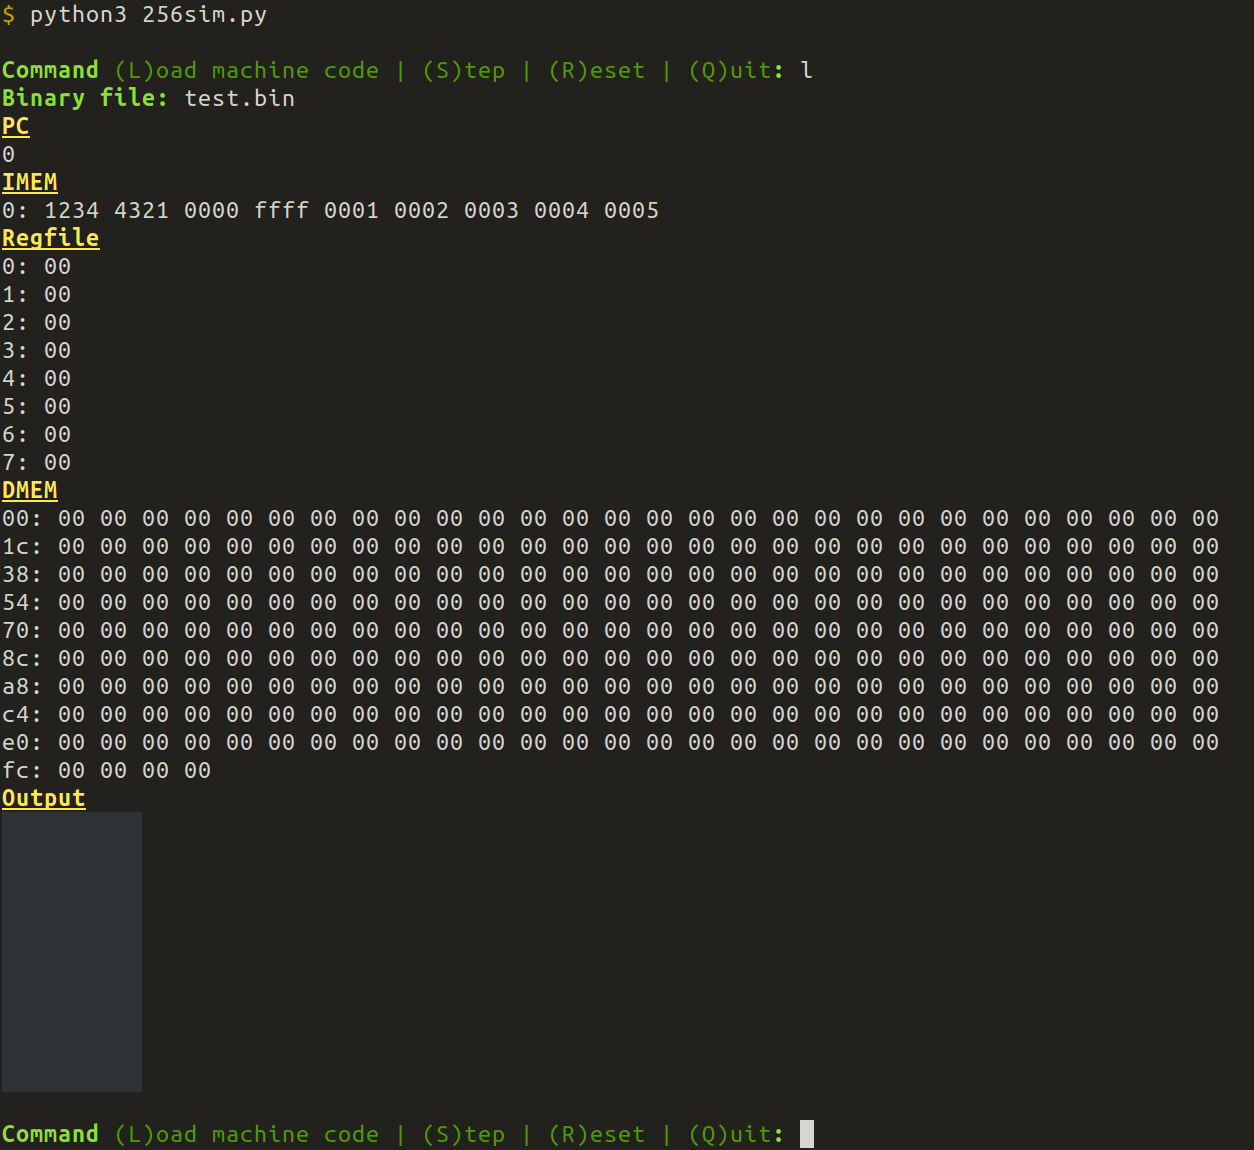
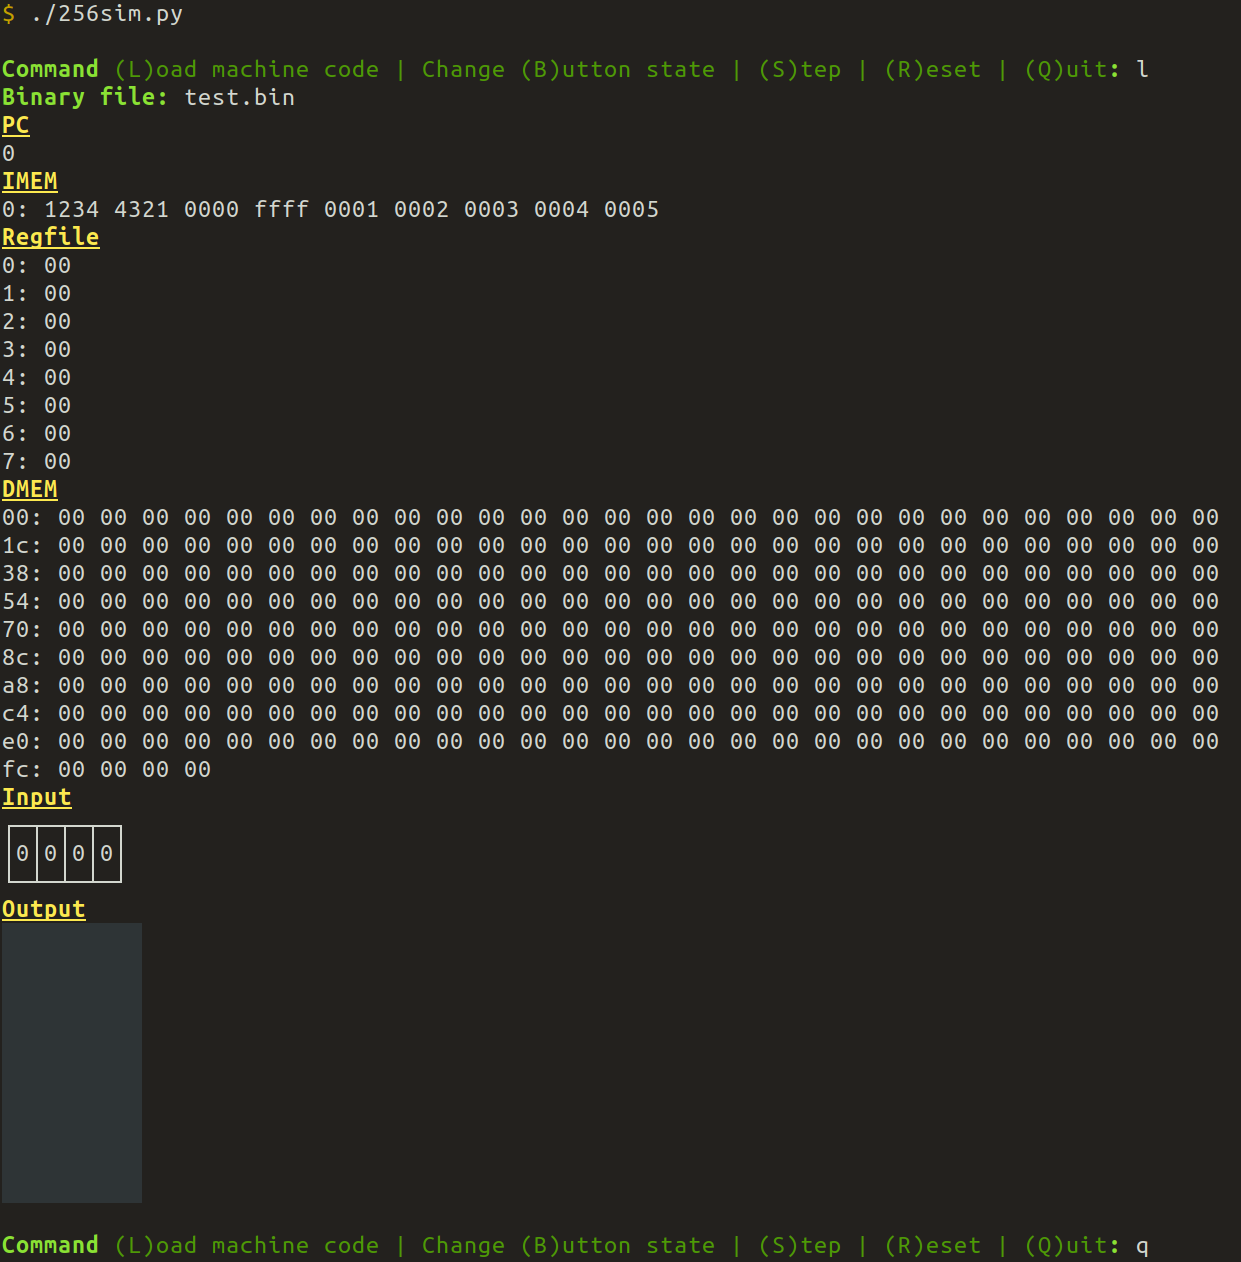
Add button state.

diff --git a/S20_Sim.py b/S20_Sim.py
@@ -1,10 +1,11 @@
-from utils import print_val, print_mem, print_matrix
+from utils import print_val, print_mem, print_input, print_matrix
 
 
 # Constants for this architecture
 _NUMREG = 8       # number of registers in the register file
 _REGSIZE = 8      # size (in bits) of each register)
 _ADDRSIZE = _REGSIZE  # size (in bits) of DMEM addresses
+_NUMBUTTONS = 4   # Number of buttons (binary on/off) for input
 _MATRIXSIZE = 10  # width and height of the pixel matrix output
 
 
@@ -12,7 +13,7 @@ class Simulator:
 
     def __init__(self):
         # CPU state:
-        self.imem = []  # not affected by CPU reset, so only initialized here
+        self.imem = [0]  # not affected by CPU reset, so only initialized here
         self.reset()
 
         # Simulator state (separate from the CPU itself):
@@ -29,6 +30,18 @@ class Simulator:
         # Always reset on loading new code
         self.reset()
 
+    def change_buttons(self, new_buttons):
+        # Change the state of the simulated buttons
+        # Parameter: new_buttons is a string, containing a 0 or 1 for each button
+        #            e.g. "0110" for the first button not pressed, the second and
+        #            third pressed, and the fourth not pressed.
+        buttons = [int(c) for c in new_buttons]
+        if len(buttons) != _NUMBUTTONS:
+            raise Exception(f"Incorrect number of buttons.  Got {len(buttons)}, expected {_NUMBUTTONS}.")
+        if max(buttons) > 1 or min(self.buttons) < 0:
+            raise Exception(f"Invalid value for button.  Only allowed values are 0 and 1.")
+        self.buttons = buttons
+
     def step(self):
         # Simulate *one* cycle of the CPU (Fetch-Decode-Execute)
         # Basic outline:
@@ -44,6 +57,7 @@ class Simulator:
         self.PC = 0
         self.regfile = [0] * _NUMREG
         self.dmem = [0] * 2**_ADDRSIZE
+        self.buttons = [0] * _NUMBUTTONS
         self.matrix = [([0] * _MATRIXSIZE) for _ in range(_MATRIXSIZE)]
 
     def print(self):
@@ -52,4 +66,5 @@ class Simulator:
         print_mem(self.imem, "IMEM", val_width=16)
         print_mem(self.regfile, "Regfile", label_all=True)
         print_mem(self.dmem, "DMEM")
+        print_input(self.buttons, "Input")
         print_matrix(self.matrix, "Output")

diff --git a/256sim.py b/256sim.py
@@ -5,7 +5,7 @@ from S20_Sim import Simulator
 
 def read_cmd():
     # Show a prompt and read a command from the terminal
-    cmd = input("[1;32mCommand[0;32m (L)oad machine code | (S)tep | (R)eset | (Q)uit[1;32m:[m ")
+    cmd = input("[1;32mCommand[0;32m (L)oad machine code | Change (B)utton state | (S)tep | (R)eset | (Q)uit[1;32m:[m ")
     cmd = cmd.upper()
     return cmd
 
@@ -30,6 +30,13 @@ def main():
                 sim.load_bin(filename)
             except Exception as e:
                 print(f"[1;31mError loading file:[m {e}")
+                continue
+        elif cmd == 'B':
+            buttons = input("[1;32mNew state[0;32m (4 buttons; 0 or 1 each; e.g. '0010' to press just the third button)[1;32m:[m ")
+            try:
+                sim.change_buttons(buttons)
+            except Exception as e:
+                print(f"[1;31mInvalid button string:[m {e}")
                 continue
         elif cmd == 'S':
             sim.step()

diff --git a/utils.py b/utils.py
@@ -29,6 +29,16 @@ def print_mem(array, name, val_width=8, label_all=False):
     print(imem_str)
 
 
+def print_input(buttons, name):
+    print_head(name)
+
+    num = len(buttons)
+
+    print("┌─" + "┬─"*(num-1) + "┐")
+    print("│" + "│".join(str(i) for i in buttons) + "│")
+    print("└─" + "┴─"*(num-1) + "┘")
+
+
 def print_matrix(matrix, name):
     print_head(name)
 
